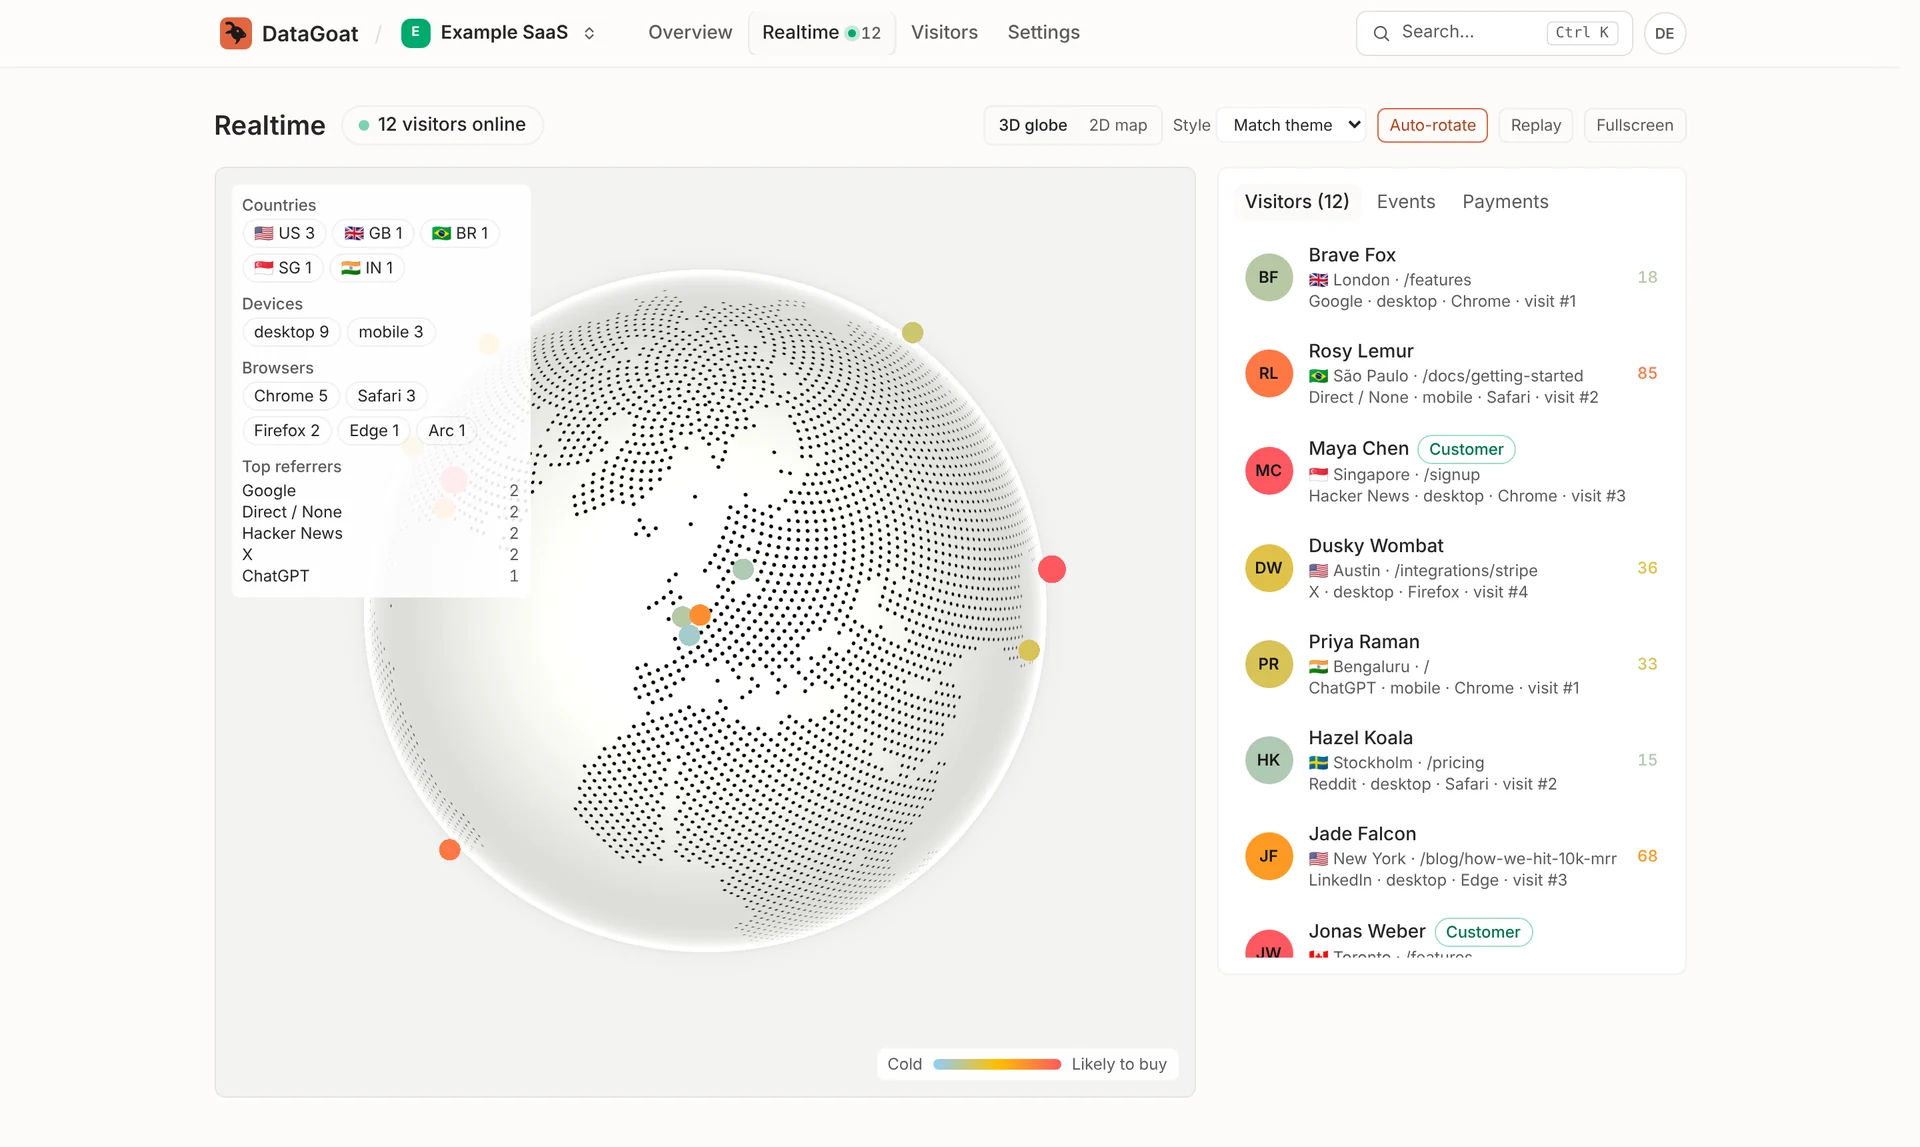
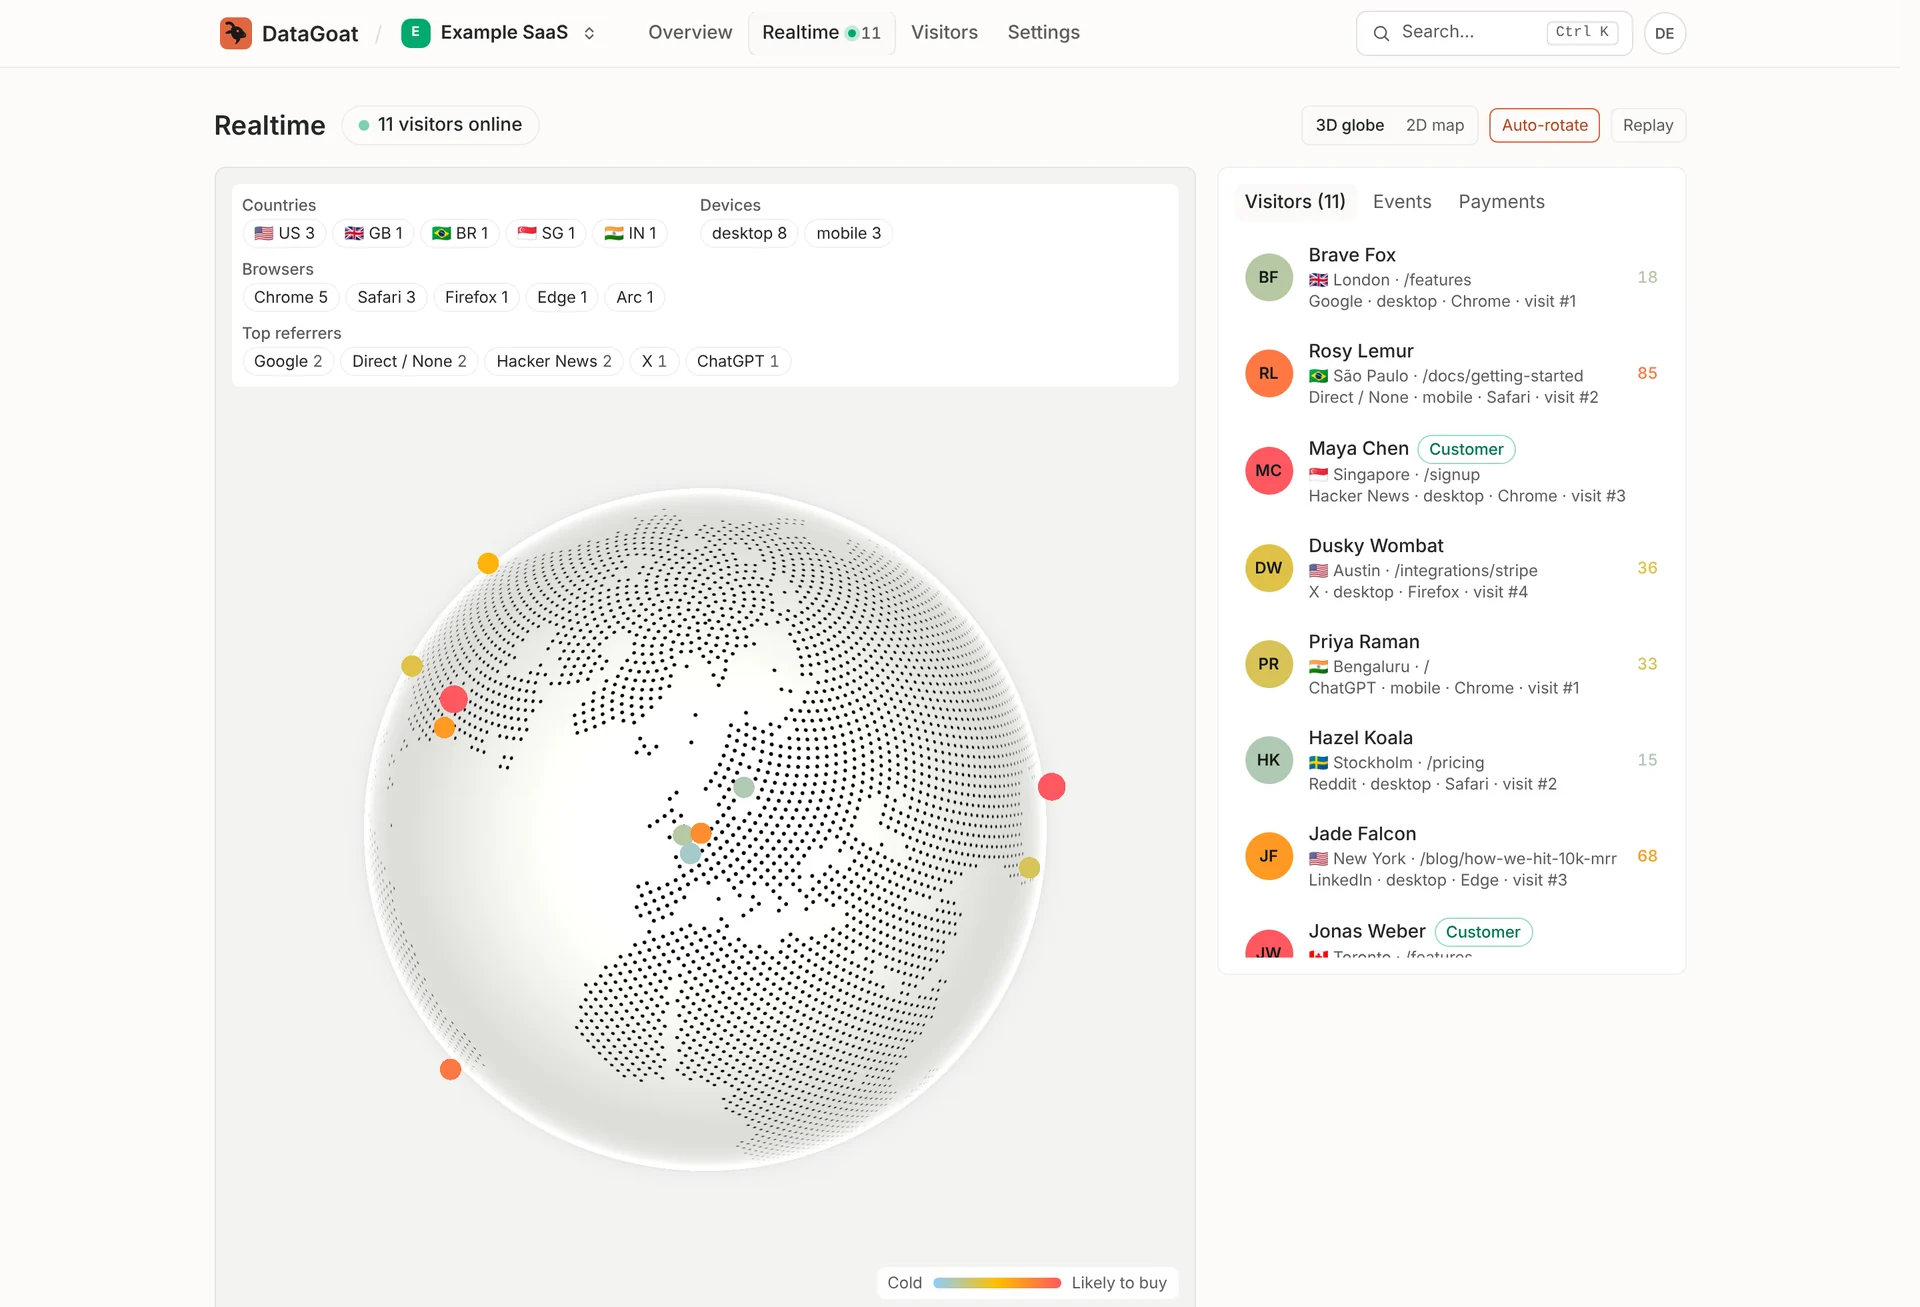
Realtime: stats strip above the globe; drop map styles and full screen
The summary panel floated over the 3D globe on wide screens, hiding part of
it and the visitors under it. It is now a strip above the globe or map, as
on the 2D map already, with top referrers as chips like the other stats.

The Style picker (Outdoors, Dark, Light, Satellite, Match theme) and the
Full screen button are removed by choice: the map and globe always follow
the dashboard's light or dark theme. PARITY.md records both as dropped,
and the README's Realtime screenshot is retaken.

diff --git a/dashboard/src/pages/analytics/RealtimePage.tsx b/dashboard/src/pages/analytics/RealtimePage.tsx
@@ -1,11 +1,11 @@
 /**
  * Realtime (DataFast's "Visitors now" map): live count, active visitors, event log and recent
- * payments; a 2D map or a lazily loaded 3D globe with styles, auto-rotation, fullscreen,
+ * payments; a 2D map or a lazily loaded 3D globe in the dashboard theme, with auto-rotation,
  * country/device/browser filters, purchase-likelihood colours and an 8-hour replay in
  * 15-minute steps.
  */
 import { Link } from "@tanstack/react-router";
-import { lazy, Suspense, useEffect, useMemo, useRef, useState } from "react";
+import { lazy, Suspense, useEffect, useMemo, useState } from "react";
 import type { RealtimeMap, RealtimeVisitor } from "../../../../shared/api-types";
 import {
   Badge,
@@ -27,7 +27,7 @@ import {
   formatTime,
   timeAgo,
 } from "../../analytics/lib/format";
-import { MAP_STYLE_KEYS, MAP_STYLES, type MapStyle } from "../../analytics/lib/mapStyles";
+import { MAP_STYLES, type MapStyle } from "../../analytics/lib/mapStyles";
 import { initials, visitorName } from "../../analytics/lib/names";
 import { readPref, writePref } from "../../analytics/lib/storage";
 import { SiteAnalytics } from "../../analytics/SiteAnalytics";
@@ -291,12 +291,8 @@ export function RealtimeView({
 }) {
   const map = useRealtimeMap(siteId ?? "", 15_000, share?.token);
   const [view, setView] = useState<View>(() => readPref<View>("realtime:view", "globe"));
-  // "auto" follows the app theme. (A new key: the old one stored "dark" for everyone on first visit.)
-  const [styleChoice, setStyleChoice] = useState<MapStyle | "auto">(() =>
-    readPref<MapStyle | "auto">("realtime:mapStyle", "auto"),
-  );
-  const theme = useResolvedTheme();
-  const style: MapStyle = styleChoice === "auto" ? theme : styleChoice;
+  // The map and globe follow the dashboard's light or dark theme.
+  const style: MapStyle = useResolvedTheme();
   const [autoRotate, setAutoRotate] = useState(true);
   const [replay, setReplay] = useState(false);
   const [frame, setFrame] = useState(31);
@@ -304,12 +300,10 @@ export function RealtimeView({
   const [selected, setSelected] = useState<string | null>(null);
   const [filters, setFilters] = useState<LiveFilter[]>([]);
   const [tab, setTab] = useState("visitors");
-  const stage = useRef<HTMLDivElement>(null);
   const replayQ = useRealtimeReplay(siteId ?? "", replay, share?.token);
   const frames = replayQ.data?.frames ?? [];
 
   useEffect(() => writePref("realtime:view", view), [view]);
-  useEffect(() => writePref("realtime:mapStyle", styleChoice), [styleChoice]);
   useEffect(() => {
     if (!playing || !frames.length) return;
     const id = setInterval(() => {
@@ -406,21 +400,6 @@ export function RealtimeView({
               { value: "map", label: "2D map" },
             ]}
           />
-          <label className="flex items-center gap-1 text-xs text-muted">
-            Style
-            <select
-              value={styleChoice}
-              onChange={(e) => setStyleChoice(e.target.value as MapStyle | "auto")}
-              className="rounded-md border border-line bg-surface px-2 py-1 text-xs text-text"
-            >
-              <option value="auto">Match theme</option>
-              {MAP_STYLE_KEYS.map((k) => (
-                <option key={k} value={k}>
-                  {MAP_STYLES[k].label}
-                </option>
-              ))}
-            </select>
-          </label>
           {view === "globe" ? (
             <button
               type="button"
@@ -451,18 +430,6 @@ export function RealtimeView({
           >
             Replay
           </button>
-          <button
-            type="button"
-            onClick={() => {
-              const el = stage.current;
-              if (!el) return;
-              if (document.fullscreenElement) void document.exitFullscreen?.();
-              else void el.requestFullscreen?.();
-            }}
-            className="rounded-md border border-line px-2 py-1 text-xs text-muted hover:text-text"
-          >
-            Fullscreen
-          </button>
         </div>
       </div>
 
@@ -470,23 +437,16 @@ export function RealtimeView({
 
       <div className="grid gap-4 lg:grid-cols-[minmax(0,1fr)_22rem]">
         <div
-          ref={stage}
-          // Panels over the map take the map's light or dark look, not the app theme's.
           data-theme={MAP_STYLES[style].dark ? "dark" : "light"}
           className="relative min-w-0 overflow-hidden rounded-lg border border-line p-3 text-text"
           style={{ background: MAP_STYLES[style].ocean }}
         >
           {summary ? (
-            // Over the globe the panel floats in the empty corner; on the flat map it would cover
-            // North America, so there it sits in a row above the map.
+            // A strip above the globe or map, never over it: a floating panel would hide part of
+            // the globe and the visitors under it.
             <div
               data-testid="realtime-summary"
-              className={cx(
-                "relative z-10 mb-3 flex flex-wrap gap-2 rounded-md bg-surface/90 p-2 text-xs",
-                view === "globe"
-                  ? "lg:absolute lg:left-3 lg:top-3 lg:mb-0 lg:max-w-56 lg:flex-col"
-                  : "lg:gap-x-6",
-              )}
+              className="relative z-10 mb-3 flex flex-wrap gap-x-6 gap-y-2 rounded-md bg-surface p-2 text-xs"
             >
               {(
                 [
@@ -522,11 +482,10 @@ export function RealtimeView({
               ))}
               <div className="min-w-0">
                 <div className="mb-0.5 font-medium text-muted">Top referrers</div>
-                <ul>
+                <ul className="flex flex-wrap gap-1">
                   {summary.referrers.map(([r, n]) => (
-                    <li key={r} className="flex justify-between gap-2">
-                      <span className="truncate">{r}</span>
-                      <span className="tabular-nums text-muted">{n}</span>
+                    <li key={r} className="rounded-full border border-line px-2 py-0.5">
+                      {r} <span className="tabular-nums text-muted">{n}</span>
                     </li>
                   ))}
                 </ul>

diff --git a/dashboard/src/test/analytics/pages.test.tsx b/dashboard/src/test/analytics/pages.test.tsx
@@ -32,24 +32,23 @@ describe("realtime", () => {
     expect(await screen.findByRole("list", { name: "Recent payments" })).toHaveTextContent("+$99");
   });
 
-  it("matches the map style to the app theme until a style is picked", async () => {
+  it("draws the map in the app theme, with the stats above it and no style or fullscreen controls", async () => {
     document.documentElement.setAttribute("data-theme", "light");
     const { container } = renderSite("realtime");
     await screen.findByRole("list", { name: "Active visitors" });
-    expect(screen.getByLabelText("Style")).toHaveValue("auto");
+    expect(screen.queryByLabelText("Style")).not.toBeInTheDocument();
+    expect(screen.queryByRole("button", { name: "Fullscreen" })).not.toBeInTheDocument();
     const stage = () => container.querySelector("div[data-theme]");
     expect(stage()).toHaveAttribute("data-theme", "light");
     act(() => document.documentElement.setAttribute("data-theme", "dark"));
     await waitFor(() => expect(stage()).toHaveAttribute("data-theme", "dark"));
-    // A dark style keeps its dark panels in the light theme.
-    act(() => document.documentElement.setAttribute("data-theme", "light"));
-    await userEvent.selectOptions(screen.getByLabelText("Style"), "satellite");
-    expect(stage()).toHaveAttribute("data-theme", "dark");
-    document.documentElement.setAttribute("data-theme", "dark");
-    window.localStorage.clear();
+    // The stats are a strip in the page flow, not a panel floating over the globe.
+    const summary = screen.getByTestId("realtime-summary");
+    expect(summary.className).not.toMatch(/absolute/);
+    expect(within(summary).getByText(/^Google/)).toBeInTheDocument();
   });
 
-  it("filters live visitors by country, switches view and style, and replays the last 8 hours", async () => {
+  it("filters live visitors by country, switches view, and replays the last 8 hours", async () => {
     renderSite("realtime");
     const list = await screen.findByRole("list", { name: "Active visitors" });
     const before = within(list).getAllByRole("button").length;
@@ -61,8 +60,6 @@ describe("realtime", () => {
     );
     await userEvent.click(screen.getByRole("button", { name: "2D map" }));
     expect(screen.getByRole("button", { name: "2D map" })).toHaveAttribute("aria-pressed", "true");
-    await userEvent.selectOptions(screen.getByLabelText("Style"), "satellite");
-    expect(window.localStorage.getItem("dg:realtime:mapStyle")).toBe('"satellite"');
     await userEvent.click(screen.getByRole("button", { name: "Replay" }));
     expect(await screen.findByTestId("replay-time")).toHaveTextContent(/visitors · \d+ pageviews/);
     const slider = screen.getByRole("slider", { name: "Replay time" });

diff --git a/dashboard/src/analytics/lib/mapStyles.ts b/dashboard/src/analytics/lib/mapStyles.ts
@@ -1,8 +1,9 @@
 /**
- * Map styles for the realtime 2D map and 3D globe (DataFast's Outdoors / Dark / Light /
- * Satellite). Rendered locally from Natural Earth shapes; no tile server is contacted.
+ * Colours of the realtime 2D map and 3D globe, one set per dashboard theme (the map follows the
+ * app's light or dark theme). Rendered locally from Natural Earth shapes; no tile server is
+ * contacted.
  */
-export type MapStyle = "outdoors" | "dark" | "light" | "satellite";
+export type MapStyle = "dark" | "light";
 
 export interface MapPalette {
   label: string;
@@ -21,14 +22,6 @@ export interface MapPalette {
 }
 
 export const MAP_STYLES: Record<MapStyle, MapPalette> = {
-  outdoors: {
-    label: "Outdoors",
-    dark: false,
-    ocean: "#cfe5ee",
-    land: "#e4ecd3",
-    border: "#b5c39f",
-    globe: { base: [0.55, 0.7, 0.5], glow: [0.75, 0.88, 0.95], dark: 0, brightness: 5 },
-  },
   dark: {
     label: "Dark",
     dark: true,
@@ -45,14 +38,4 @@ export const MAP_STYLES: Record<MapStyle, MapPalette> = {
     border: "#c4c4bf",
     globe: { base: [0.95, 0.95, 0.93], glow: [0.9, 0.9, 0.9], dark: 0, brightness: 3 },
   },
-  satellite: {
-    label: "Satellite",
-    dark: true,
-    ocean: "#0b1d33",
-    land: "#3d4a2c",
-    border: "#5a6a43",
-    globe: { base: [0.18, 0.24, 0.14], glow: [0.2, 0.35, 0.6], dark: 1, brightness: 6 },
-  },
 };
-
-export const MAP_STYLE_KEYS = Object.keys(MAP_STYLES) as MapStyle[];

diff --git a/docs/PARITY.md b/docs/PARITY.md
@@ -24,7 +24,7 @@ Last audit: November 2026, branch `finisher`.
 | Area | Done | Done (untested against the real service) | Partial | Not done |
 | --- | --- | --- | --- | --- |
 | Tracking | 34 | 0 | 0 | 0 |
-| Dashboard | 52 | 0 | 2 | 0 |
+| Dashboard | 51 | 0 | 2 | 1 |
 | Revenue | 15 | 10 | 1 | 0 |
 | Goals and funnels | 16 | 0 | 0 | 0 |
 | API | 22 | 0 | 0 | 1 |
@@ -34,7 +34,7 @@ Last audit: November 2026, branch `finisher`.
 | Privacy | 10 | 0 | 0 | 1 |
 | Install and ecosystem | 13 | 3 | 0 | 0 |
 | Mobile | 5 | 1 | 1 | 2 |
-| **Total** | **208** | **23** | **4** | **4** |
+| **Total** | **207** | **23** | **4** | **5** |
 
 Rows marked "finisher" were added or fixed in this audit.
 
@@ -121,12 +121,12 @@ Rows marked "finisher" were added or fixed in this audit.
 | #1 KPI (revenue or a goal) across breakdowns | Done | `KpiRow.tsx`, `BreakdownCard.tsx` | |
 | KPI colour schemes | Done | Settings → General, `dashboard/src/analytics/lib/colors.ts` | |
 | Real-time map: 3D globe and 2D map | Done | `dashboard/src/pages/analytics/RealtimePage.tsx`, `Globe.tsx`, `WorldMap.tsx` | |
-| Map styles Outdoors, Dark, Light, Satellite | Partial | `dashboard/src/analytics/lib/mapStyles.ts` | the maps are drawn locally from Natural Earth shapes, so "Satellite" is a colour style, not imagery (no third-party map tiles by design) |
+| Map styles Outdoors, Dark, Light, Satellite | Not done | `dashboard/src/analytics/lib/mapStyles.ts` | removed by choice: the map and globe follow the dashboard's light or dark theme |
 | Globe replay (last 8 hours, 15-minute steps) | Done | `RealtimePage.tsx`, `/api/v1/analytics/realtime/replay` | |
 | Globe filters (country, device, browser) | Done | `RealtimePage.tsx` | |
 | Event log; click an event to highlight the visitor, click a visitor to filter events | Done | `RealtimePage.tsx` | |
 | Visitor details on the map (device, browser, location, page, session, visit count), top referrers, avatars | Done | `RealtimePage.tsx` | |
-| Light mode, full screen, auto-rotation | Done | `RealtimePage.tsx` | |
+| Light mode, full screen, auto-rotation | Partial | `RealtimePage.tsx` | light and dark follow the dashboard theme; full screen removed by choice |
 | Purchase-likelihood colours and expected value (after 1,000 visitors and 10 attributed payments) | Done | `src/query/jobs/predictions.ts`, `src/query/prediction.ts` | |
 | Visitor profile: journey from first visit to purchase, identity, prediction | Done | `dashboard/src/pages/analytics/VisitorProfilePage.tsx`, `/api/v1/visitors/:id` | |
 | Journey shows each day's referrer | Done | `VisitorProfilePage.tsx` | |
@@ -342,9 +342,11 @@ Every DataFast endpoint was called on the running Worker with demo data and answ
 3. **Real-time 3D map in the mobile app**: needs native map or WebGL modules and device testing.
 4. **iOS home-screen widgets**: the native WidgetKit extension cannot be built or tested without Xcode;
    the app already writes the widget data.
+5. **Realtime map styles**: removed by choice. The map and globe follow the dashboard's light or dark
+   theme, which keeps one look across the app; full screen was removed with them.
 
-Partial rows that stay partial: pinned periods are per browser; "Satellite" is a colour style
-because maps are drawn locally; Easytool's integration is operated by Easytool for DataFast only;
+Partial rows that stay partial: pinned periods are per browser; the realtime map has no full screen
+mode (by choice); Easytool's integration is operated by Easytool for DataFast only;
 mobile sign-in uses a password instead of an emailed code.
 
 ## DataGoat-only extras

diff --git a/docs/analytics-dashboard.md b/docs/analytics-dashboard.md
@@ -94,14 +94,13 @@ The live visitor count, the list of people on the site now (location, page, sour
 number, customer badge), the event log (click a visitor to see only their events) and recent
 payments. The map shows each visitor as a dot coloured by **purchase likelihood** (blue cold → red
 likely to buy; predictions need 1,000 visitors and 10 attributed payments). Switch between the
-**3D globe** and the **2D map**, pick a style (Outdoors, Dark, Light, Satellite), turn auto-rotation
-on or off, go fullscreen, and filter by country, device or browser from the panel. **Replay** plays
+**3D globe** and the **2D map** (both drawn in the dashboard's light or dark theme), turn
+auto-rotation on or off, and filter by country, device or browser from the chips above the map. **Replay** plays
 the last 8 hours in 15-minute steps.
 
 The globe uses [cobe](https://github.com/shuding/cobe) (MIT) and WebGL; browsers without WebGL get
 the 2D map. Maps are drawn locally from Natural Earth shapes ([world-atlas](https://github.com/topojson/world-atlas),
-ISC) with d3-geo (ISC): no map tiles are downloaded from third parties, so "Satellite" is a colour
-style, not imagery.
+ISC) with d3-geo (ISC): no map tiles are downloaded from third parties.
 
 ## Visitors
 
